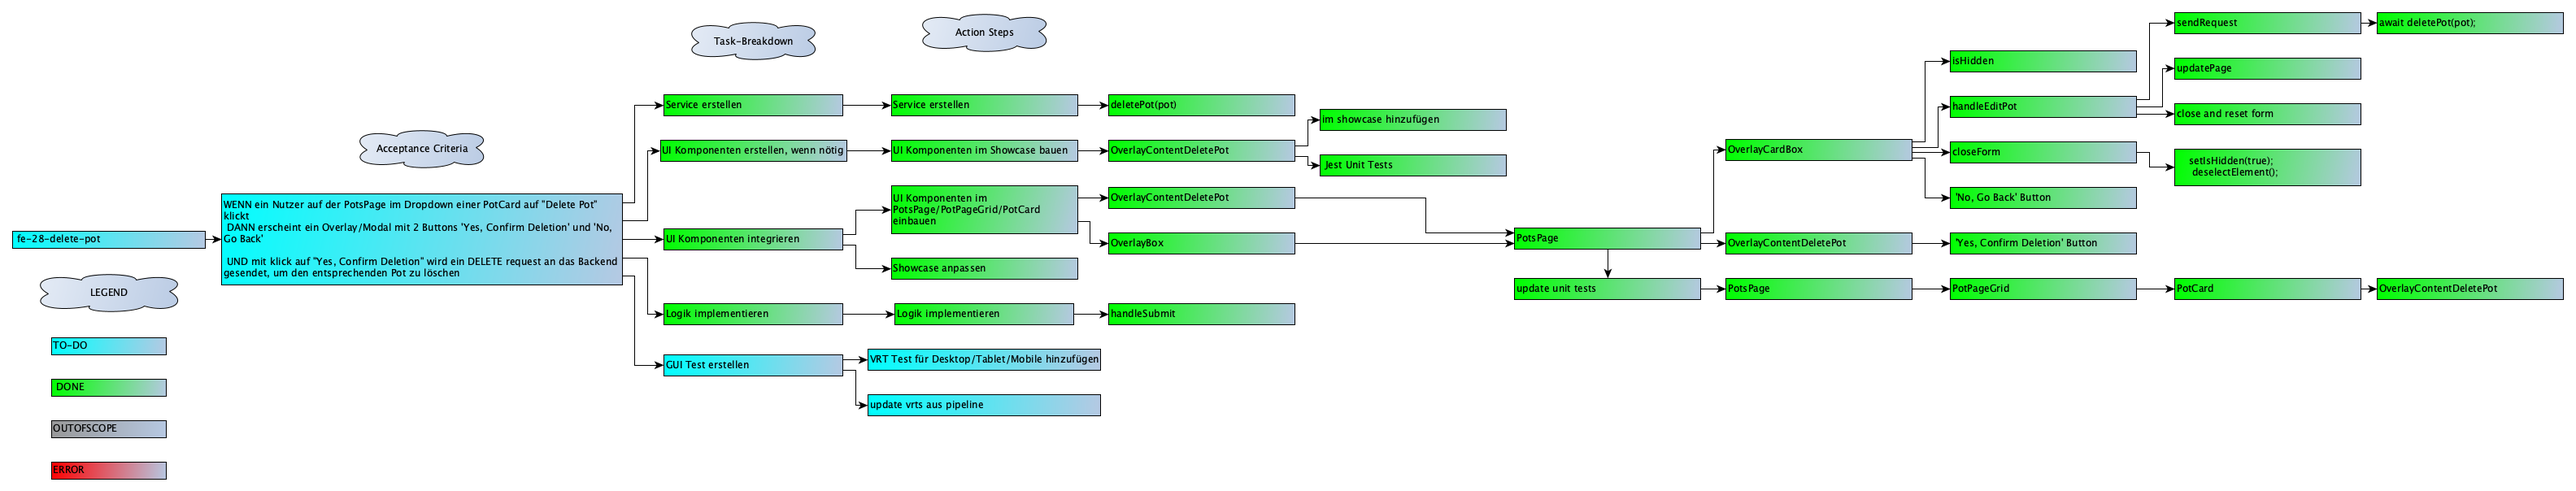
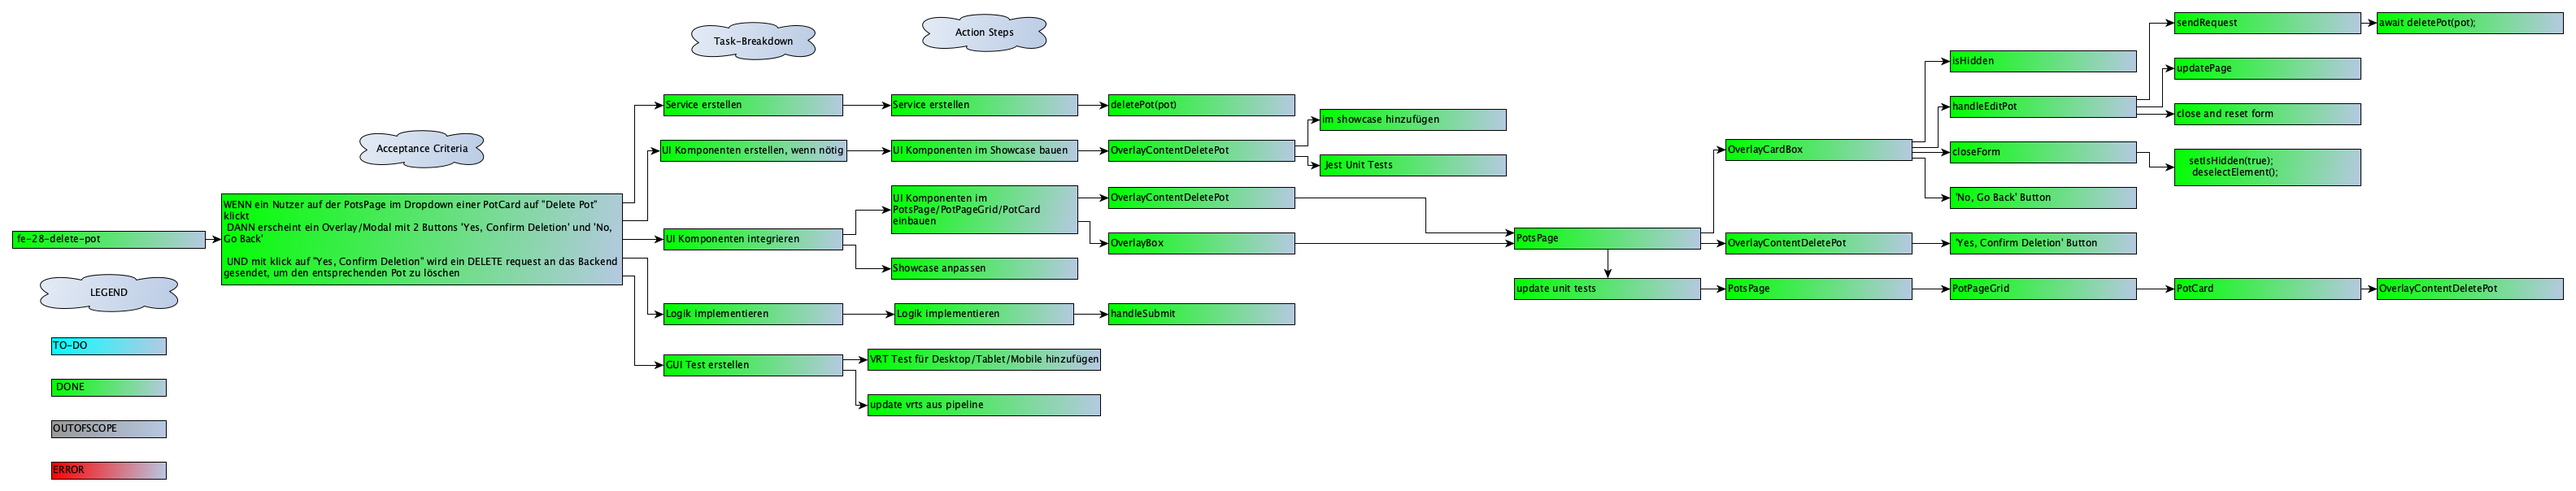
fe-28 add gui tests

Changed region(s): [[0.0, 0.3874, 0.25, 0.596], [0.25, 0.6854, 0.4375, 0.7748], [0.3125, 0.8046, 0.4375, 0.8642]]

diff --git a/frontend/ui-tests/gui-tests/componenttests/DeletePotForm.spec.ts b/frontend/ui-tests/gui-tests/componenttests/DeletePotForm.spec.ts
@@ -1,0 +1,30 @@
+import { test, expect } from '@playwright/test';
+import openPage from '../utils/openPage';
+import { DeviceHeight, DeviceWidth } from '../constants';
+import removeFocus from '../utils/removeFocus';
+
+const BASE_PATH: string = 'http://localhost:5173/showcase/DeletePotForm';
+
+test('DeletePotForm-Desktop', async ({ page }): Promise<void> => {
+  await openPage(page, BASE_PATH, DeviceHeight.Default, DeviceWidth.Desktop);
+
+  await removeFocus(page);
+
+  await expect(page).toHaveScreenshot();
+});
+
+test('DeletePotForm-Tablet', async ({ page }): Promise<void> => {
+  await openPage(page, BASE_PATH, DeviceHeight.Default, DeviceWidth.Tablet);
+
+  await removeFocus(page);
+
+  await expect(page).toHaveScreenshot();
+});
+
+test('DeletePotForm-Mobile', async ({ page }): Promise<void> => {
+  await openPage(page, BASE_PATH, DeviceHeight.Default, DeviceWidth.Mobile);
+
+  await removeFocus(page);
+
+  await expect(page).toHaveScreenshot();
+});

diff --git a/frontend/src/showcase/Showcase.tsx b/frontend/src/showcase/Showcase.tsx
@@ -24,7 +24,7 @@ const Showcase = () => {
             EditPotForm
           </Link>
           <Link className="showcaseContentLink" to={'/showcase/DeletePotForm'}>
-            deletePotForm
+            DeletePotForm
           </Link>
         </div>
       </div>
